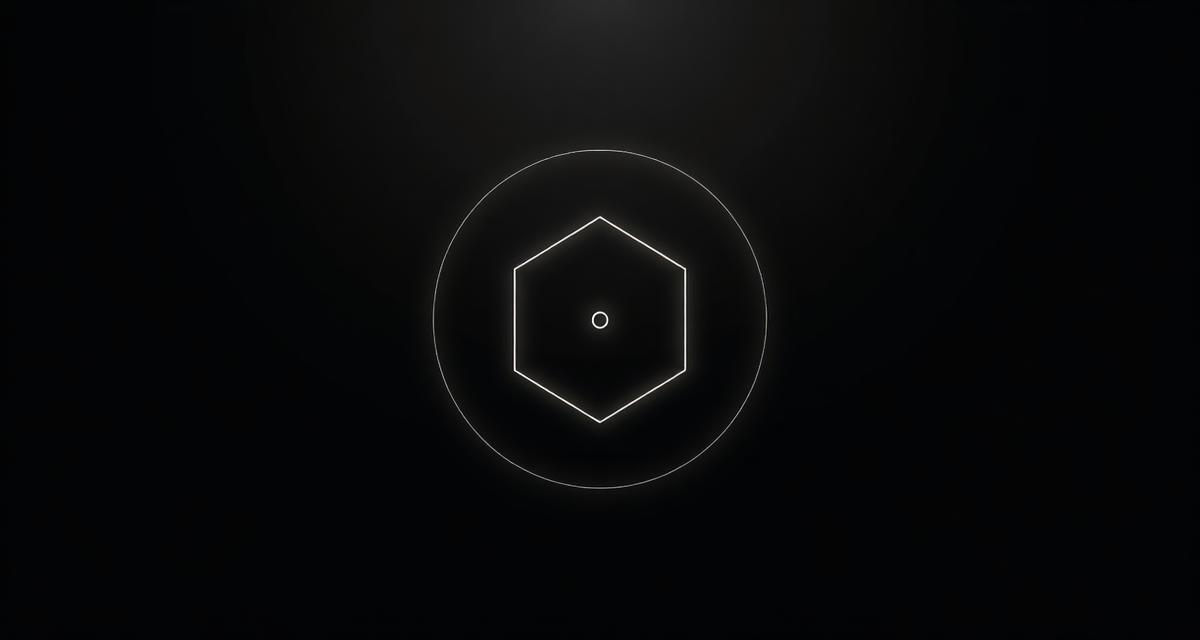
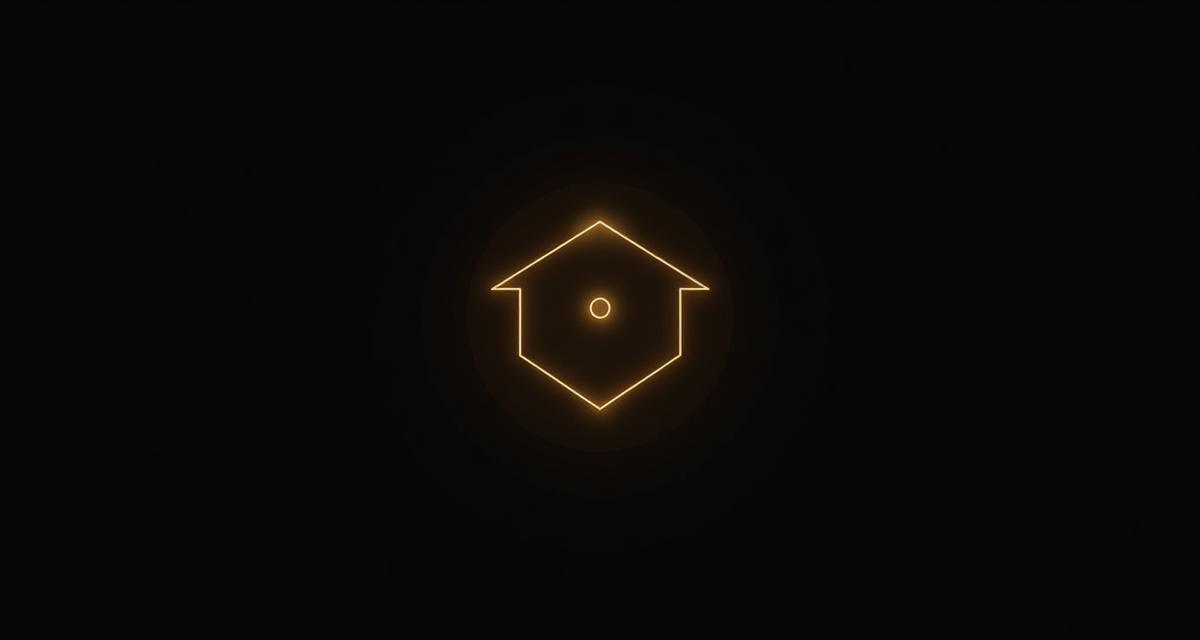
Changes

diff --git a/src/components/Preloader.tsx b/src/components/Preloader.tsx
@@ -109,9 +109,9 @@ const Preloader = ({ onComplete, minDuration = 1500 }: PreloaderProps) => {
                 }}
               />
               
-              {/* Inner geometric shape */}
+              {/* Inner pentagon/house shape - flat top, pointed bottom */}
               <motion.path
-                d="M40 20 L55 35 L55 55 L40 70 L25 55 L25 35 Z"
+                d="M25 30 L55 30 L55 50 L40 68 L25 50 Z"
                 stroke="hsl(var(--primary))"
                 strokeWidth="1.5"
                 fill="none"
@@ -123,10 +123,10 @@ const Preloader = ({ onComplete, minDuration = 1500 }: PreloaderProps) => {
                 }}
               />
               
-              {/* Center dot - pulses when loading */}
+              {/* Center dot */}
               <motion.circle
                 cx="40"
-                cy="40"
+                cy="42"
                 r="4"
                 fill="hsl(var(--primary))"
                 initial={{ scale: 0 }}

diff --git a/src/components/NavigationBar.tsx b/src/components/NavigationBar.tsx
@@ -142,9 +142,9 @@ const NavigationBar = () => {
                 className="opacity-30 group-hover:opacity-50 transition-opacity"
               />
               
-              {/* Inner hexagonal shape */}
+              {/* Inner pentagon/house shape - flat top, pointed bottom */}
               <path
-                d="M40 20 L55 35 L55 55 L40 70 L25 55 L25 35 Z"
+                d="M25 30 L55 30 L55 50 L40 68 L25 50 Z"
                 stroke="currentColor"
                 strokeWidth="1.5"
                 fill="none"
@@ -154,7 +154,7 @@ const NavigationBar = () => {
               {/* Center dot */}
               <circle
                 cx="40"
-                cy="40"
+                cy="42"
                 r="4"
                 fill="currentColor"
                 className="group-hover:fill-primary transition-colors"
